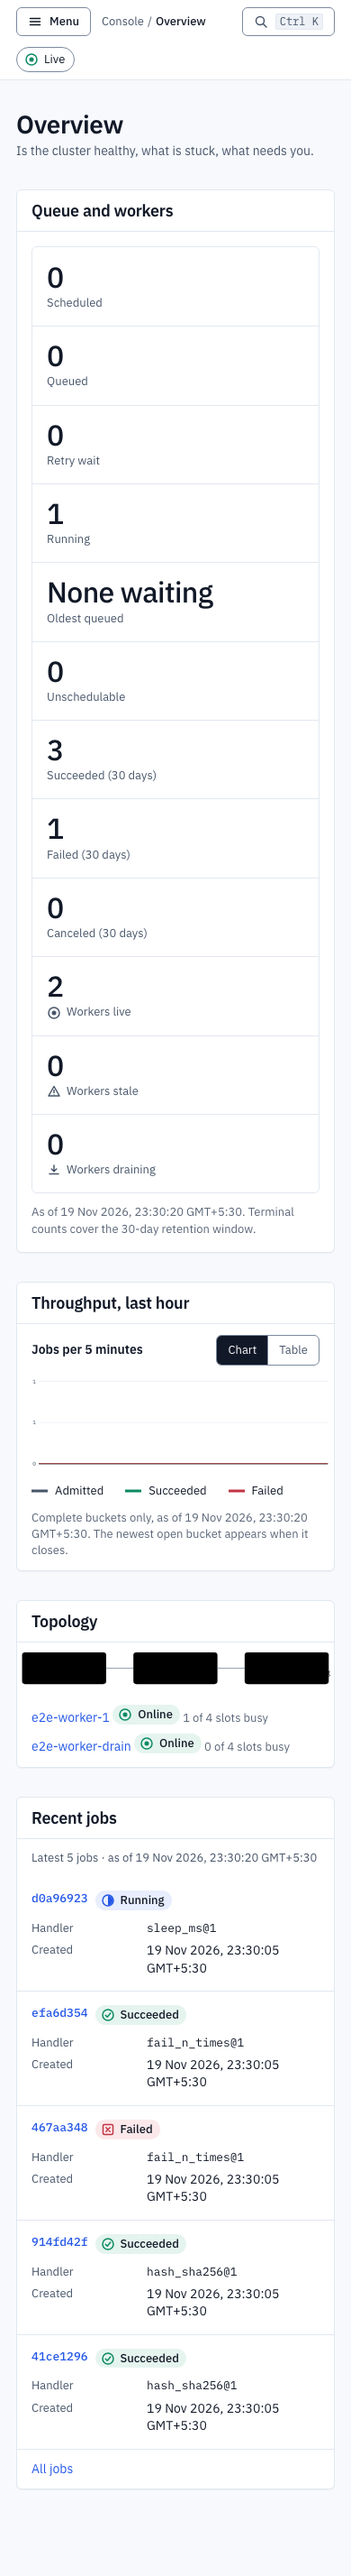
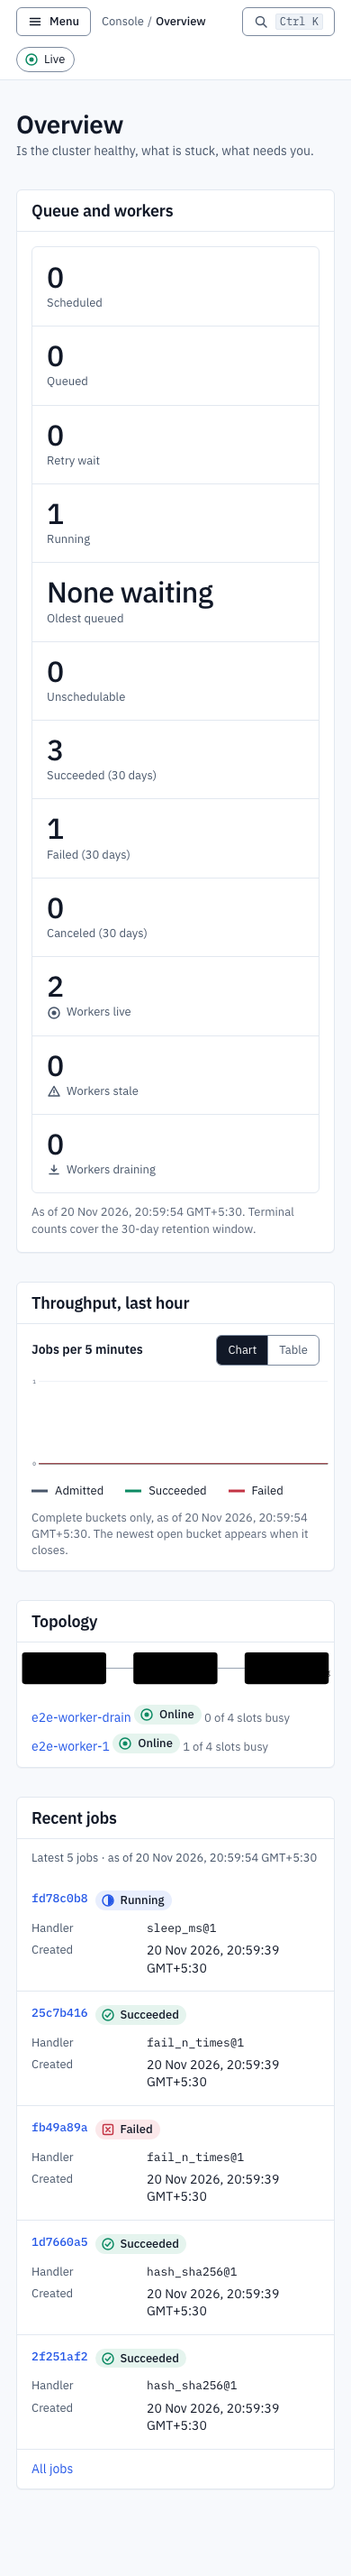
docs(m9): bundle size per route group (F-09), overview screenshots, HANDOFF-M9-FE-03

Changed region(s): [[0.3077, 0.6544, 0.6154, 0.6856], [0.6462, 0.6544, 0.7385, 0.6856]]

diff --git a/docs/coordination/handoffs/HANDOFF-M9-FE-03.md b/docs/coordination/handoffs/HANDOFF-M9-FE-03.md
@@ -1,0 +1,62 @@
+# HANDOFF: TASK-M9-FE-03 (re-audit fixes in web copy, bundle size, chart ticks)
+
+- **Author:** frontend lane, model `claude-sonnet-5-5`, requested effort high. Effective effort and Ultracode: UNVERIFIED from inside the session (MW-04).
+- **Branch:** `m9fix3/frontend` (worktree `.worktrees/frontend`), base main `da506db`. Not pushed, not merged.
+- **Contract:** `api/openapi.yaml` `1.0.0-draft.7`, last changed in `c4c3eb0`, blob SHA `4eb0f6800764ce3402b41f29aa329ff260b70e2f`. Not changed. No SQL, OpenAPI or proto edits.
+- **Source:** AUDIT-M9-RV-03 (RV10-01, RV10-02, RV10-06, F-09) and an integrator addition (duplicate y-axis label).
+- **Environment:** macOS arm64 (Apple M4), Node 26.13.1, pnpm 9.15.9, PostgreSQL 18.7 first on PATH, Playwright 1.65.1 (Chromium, Firefox, WebKit).
+- **Commits:** see "Commits" at the end (filled in after the commit).
+
+## Per item
+
+| Item | Status | What changed |
+|---|---|---|
+| **RV10-01** | Fixed in `apps/web`; **two files outside my lane still carry the old claim** | `quickstart.md` (verified block and prerequisites), `deployment.md`, `src/content/commands.ts` now say: clean clone verified in a **Linux arm64 Ubuntu VM** (AUDIT-M9-RV-01 A4 to A9); on macOS a clean clone **outside `$HOME` failed** (A3, Colima mounts only `$HOME`); a macOS clean clone under `$HOME` was **not run**; the only macOS evidence is the integrator's 2026-11-18 run from a working checkout. A unit test fails if the old phrasings return. **Integrator action:** `README.md:40` ("Verified from a clean clone on macOS arm64 with Colima") and `docs/testing/release-gates.md:18` ("macOS under `$HOME`") are outside my allowed paths and still say it. |
+| **RV10-02** | Fixed | `lib/docs/openapi.ts`: the draft.6 statement "every operation is routed" is read first, so every operation is `served: true`; the M4-era sentence is used only for a draft that lacks the draft.6 line. `features/api-reference.tsx`: the callout says every operation is routed and that routed is not the same as exercised (the "Executed in the M4 curl guide" chips stay, they are record-based). `docs.test.tsx`: the label test is rewritten, and a new check **parses `apps/control-plane/internal/api/v1.go`** (every `route(mux, "PATH", ... http.MethodX`) and requires its set of method and path pairs to equal the spec's `/api/v1` operations in both directions. `e2e/docs.spec.ts:117` now asserts `cancelJob` shows "Served in this build" and that no "Not served yet" text exists. `/docs/api` header warning and `/docs/quickstart` `not_found_route` row reworded (unknown path, not "unserved route"). `/docs/concepts`: the sentence that cancel and retry are not served is removed. `/docs/workers`: states that handler log capture shipped in M5 (`job.Log`, a `*slog.Logger`, last 16 KiB reported as `log_tail`, secret-like keys redacted, kept 7 days, other output not captured), and the `sdk.Job` field list now includes `Log`. A unit test blocks the old sentences. `/metrics` and `/health/*` are not in `v1.go`; they remain `served` as before (health in `server.go`, metrics on the internal listener); the parse test covers `/api/v1` only. |
+| **RV10-06** | Fixed | `/docs/reliability` Non-guarantees: "No promised performance numbers. Measured numbers from one development setup are at the end of this page; they are not capacity claims." |
+| **F-09 bundle size** | Measured, budgets proposed, not frozen (OD-06) | `docs/testing/evidence/web/bundle-size.md` and `bundle-size.json`, produced by new `apps/web/scripts/bundle-size.mjs` from `.next/diagnostics/route-bundle-stats.json` (raw, gzip -9, Brotli -11; the script fails if its raw total differs from Next's own figure). Numbers below. |
+| **Chart ticks** (integrator) | Fixed | `features/chart.tsx`: new exported `axisTicks(max, unit)`. Counts use unique whole numbers (max 0 or 1 gives 0 and 1; max 2 gives 0, 1, 2; max 3 gives 0, 2, 3); seconds keep halves. Before: ticks `max*0.5` rounded, so max 1 drew "1" twice (0.5 rounds to 1). `src/__tests__/chart-ticks.test.tsx`: ticks for 0 to 5, plus a render check that axis labels are unique for peaks 0, 1, 2, 3. Screenshots `docs/design/screenshots/m6/overview-1440.png` and `overview-390.png` regenerated with `CAPTURE_M6=1` on the live stack (this spec writes all M6 images, each with new ids and timestamps; I reverted every other file it changed, including `public/images/console-jobs.png` and `axe-m6.*`, and kept only the two overview images, which contain the chart). In the new 1440 image the chart shows a single "1" label at the top; the "0" label sits below the 900 px fold of that fixed-size capture, so the image shows the duplicate is gone but not the whole axis. The unit render test is the proof for the whole axis. |
+
+## Bundle size (full detail in `docs/testing/evidence/web/bundle-size.md`)
+
+First-load client JS, KB (1000 B):
+
+| Group | Raw | gzip -9 | Brotli -11 |
+|---|---|---|---|
+| public (`/architecture`, `/changelog`; `/` is 519.1 / 154.3 / 132.3) | 498.2 | 148.3 | 127.1 |
+| docs (`/docs` 505.5 / 151.0 / 129.5; the 7 pages 506.7 / 151.7 / 130.0) | 506.7 | 151.7 | 130.0 |
+| demo (`/demo`) | 553.0 | 164.8 | 141.5 |
+| console (all 11 `/app/*` routes share one chunk set) | 593.3 | 177.8 | 153.2 |
+| `/login`, not-found | 498.2 | 148.3 | 127.1 |
+
+Proposed gzip ceilings (proposal, not frozen): public and docs 170, demo 190, console 205. Not measured: later dynamic loads, CSS, fonts, images, served (Caddy) transfer sizes. No CI check was added (ceilings not agreed). What makes up the 498 KB floor was not investigated.
+
+## Commands and results
+
+| Command | Exit | Result |
+|---|---|---|
+| `pnpm --filter web lint` (run as `pnpm lint` in `apps/web`) | 0 | no warnings after removing an unused import in the new script |
+| `pnpm typecheck` | 0 | |
+| `pnpm test` | 0 | all web unit tests pass, including the new chart-tick, v1.go-parity and stale-claim tests |
+| `pnpm build` | 0 | route table unchanged from the audit's `○`/`ƒ` split (`docs/testing/evidence/web/next-build-route-table.txt` not regenerated, no route change) |
+| E2E `docs`, `site`, `static-public`, `routes` specs, Chromium | 0 | 67 passed |
+| Full `pnpm e2e` (Chromium, Firefox, WebKit in sequence) | 1 (WebKit) | Chromium 213 passed, 0 failed; Firefox 213 passed, 0 failed; WebKit **212 passed, 1 failed**, each with 58 skipped (opt-in specs). The failure: `routes.spec.ts:10` `/ @ 320` in WebKit, axe `color-contrast` serious, 3 nodes. It did not reproduce: 78 WebKit runs of every `@ 320` route (6 repeats) all passed, and a second full WebKit project run gave **213 passed, 0 failed, 58 skipped, exit 0**. I did not find the cause; I changed nothing on `/`. Treat it as an unexplained intermittent WebKit contrast result under load, not as a pass-or-fail for the page. |
+
+## Claim to evidence
+
+| Claim | Evidence |
+|---|---|
+| Every operation in the API reference shows "Served in this build" | `docs.test.tsx` "marks every operation served..."; `docs.spec.ts` cancelJob assertion |
+| That claim matches the server | `docs.test.tsx` parses `apps/control-plane/internal/api/v1.go` and compares to the spec both ways. It proves routes are registered, not that each was exercised |
+| Cancel and retry are served | `v1.go:99-100`; E2E `console-jobs` (cancel and retry) |
+| Handler log capture shipped | `packages/sdk-go/handler.go:19-22` (`Job.Log`), `logcap.go` (`MaxLogTailBytes = 16384`), `worker.go:402,429` (`LogTail`) |
+| Clean clone verified on Linux arm64 only | AUDIT-M9-RV-01 A3 (failed) and A4 to A9; AUDIT-M9-RV-03 RV10-01 |
+| Chart labels unique for small maxima | `chart-ticks.test.tsx`; `overview-1440.png` |
+| Bundle numbers | `bundle-size.json`, reproducible with `scripts/bundle-size.mjs` |
+
+## Limitations and integration needs
+
+- Outside my lane, still stale: `README.md:40`, `docs/testing/release-gates.md:18` (RV10-01). RV10-03 (traceability and release-gates) and RV10-04/05 are integrator items, untouched.
+- `content/docs/security.md` and the web changelog still say the M8 production example fixes are "not yet re-reviewed". AUDIT-M9-RV-03 says it is that re-review for RV9-01..11. I did not change this: the ticket does not name it and I would be citing an uncommitted-at-base audit as a basis. Integrator decision.
+- The `Executed in the M4 curl guide` chip still marks only the 11 operations that guide ran; the other 17 are routed but have no per-operation "executed" label.
+- `/docs/api` still labels `prometheusMetrics` served as before; `/metrics` answers on the internal listener only.

diff --git a/docs/testing/evidence/web/bundle-size.md b/docs/testing/evidence/web/bundle-size.md
@@ -1,0 +1,38 @@
+# Web client JavaScript size per route group (F-09 bundle size, TASK-M9-FE-03)
+
+Measured from the production build, not estimated. Raw data: `bundle-size.json` (same folder). Reproduce: `pnpm --filter web build`, then `cd apps/web && node scripts/bundle-size.mjs ../../docs/testing/evidence/web/bundle-size.json`.
+
+## Method and limits
+
+- Source: `.next/diagnostics/route-bundle-stats.json`, written by `next build` (Next 16.4.6, Turbopack). It lists, per route, the chunks the browser loads on first navigation. The script reads those chunk files and measures raw bytes, gzip level 9 and Brotli quality 11. For every route the script checks that its raw total equals Next's own `firstLoadUncompressedJsBytes` and fails if not (it did not fail).
+- Build: this repository at `da506db` plus the TASK-M9-FE-03 changes, on macOS arm64, Node 26.13.1, pnpm 9.15.9. Sizes depend on the source and the compiler, not on the machine.
+- **What is not measured:** JavaScript loaded after first navigation (dynamic imports, route prefetch of other routes), CSS, fonts, images, HTML, and the WebSocket stream. Real transfer sizes depend on the host's compression: the production Caddy example compresses, but this audit did not capture served sizes. `gzip -9` and `brotli -11` are lower bounds of what a server will send.
+- The legacy polyfill file (112,594 B raw, 39,373 B gzip, 35,158 B Brotli) is listed apart: Next loads it only for browsers that need it.
+- All eleven `/app/*` routes report the **same chunk set** (593,277 B). Turbopack shares one set for the console, so per-page console cost cannot be split from this data. Build output of the other groups is also near-identical (498,182 B is the floor for every route).
+
+## Results (first-load JS, KB = 1000 B)
+
+| Group | Routes | Raw | gzip -9 | Brotli -11 |
+|---|---|---|---|---|
+| public (static) | `/architecture`, `/changelog` | 498.2 | 148.3 | 127.1 |
+| public (static) | `/` | 519.1 | 154.3 | 132.3 |
+| docs (static) | `/docs` | 505.5 | 151.0 | 129.5 |
+| docs (static) | `/docs/api`, `/concepts`, `/deployment`, `/quickstart`, `/reliability`, `/security`, `/workers` | 506.7 | 151.7 | 130.0 |
+| demo (static) | `/demo` | 553.0 | 164.8 | 141.5 |
+| console (dynamic) | all 11 `/app/*` routes | 593.3 | 177.8 | 153.2 |
+| auth (dynamic) | `/login` | 498.2 | 148.3 | 127.1 |
+| not found | `/_not-found`, `/[...unmatched]` | 498.2 | 148.3 | 127.1 |
+
+Reading it: about 498 KB raw (148 KB gzip) is common to every route. That floor is what the framework and the shared layout ship; this data does not say how it splits between React, Next and project code, and nobody has investigated it. The demo adds about 55 KB raw (16 KB gzip) over the floor, the console about 95 KB raw (30 KB gzip).
+
+## Proposed budgets (proposal only: not frozen, owner decision OD-06)
+
+First-load JS, gzip -9, roughly 10 to 15 percent above the measured value so that ordinary changes pass and a new dependency does not:
+
+| Group | Measured | Proposed ceiling |
+|---|---|---|
+| public and docs | 148 to 154 KB | 170 KB |
+| demo | 165 KB | 190 KB |
+| console (`/app/*`) | 178 KB | 205 KB |
+
+No CI check enforces these numbers. A gate would be a few lines around `scripts/bundle-size.mjs`; it was not added, because the ceilings are not agreed. These numbers say nothing about runtime speed. Lab Lighthouse and console p95 timings are in `docs/design/evidence/lighthouse-m9.md` and `console-budgets.md`.
